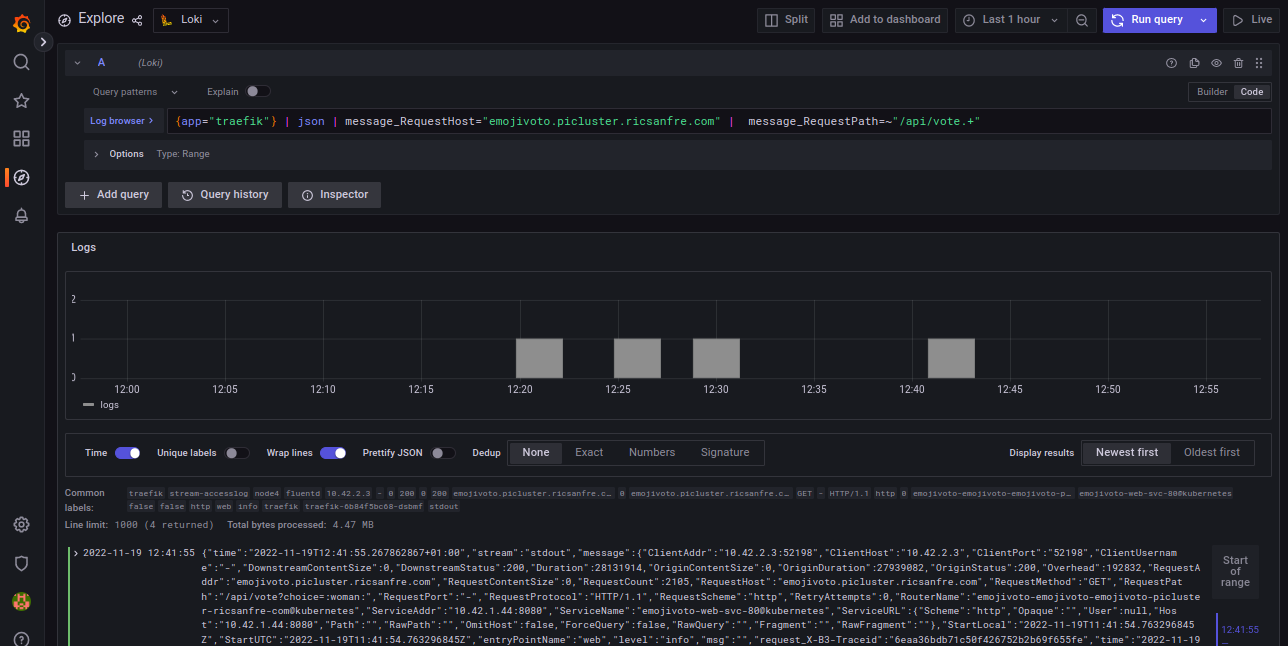
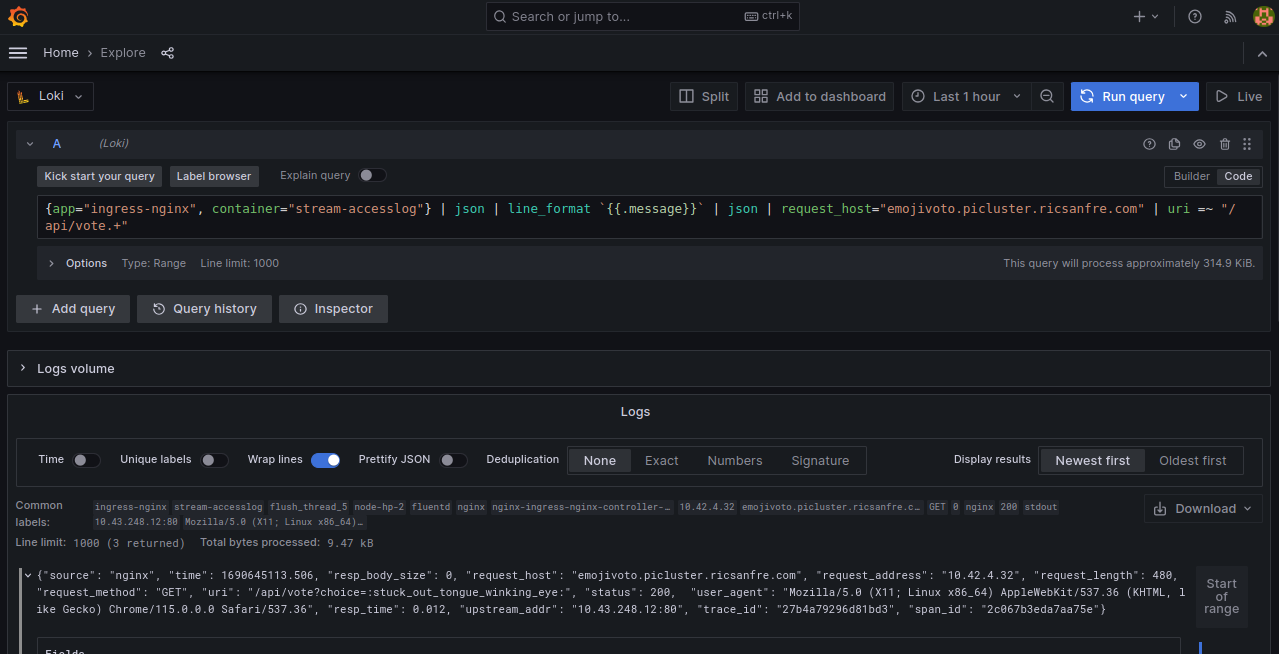
Enabling integration Loki-Tempo for nginx access logs

diff --git a/docs/_docs/tracing.md b/docs/_docs/tracing.md
@@ -2,7 +2,7 @@
 title: Distributed Tracing (Tempo)
 permalink: /docs/tracing/
 description: How to deploy a distributed tracing solution based on Grafana Tempo.
-last_modified_at: "13-05-2023"
+last_modified_at: "29-07-2023"
 ---
 
 
@@ -393,6 +393,31 @@ tracing:
 
 In Traefik's access logs, a new field appear `request_X-B3-Traceid` containing trace id that can be used to extrac Tempo traces information.
 
+
+## Ingress NGINX traces integration
+
+Ingress Contoller is a key component for distributed tracing solution because it is reposible for creating the root span of each trace and for deciding if that trace should be sampled or not.
+
+Distributed tracing systems all rely on propagate the trace context throuhg the chain of involved services. This trace contex is encoding in HTTP request headers. Of the available propagation protocols, B3 is the only one supported by Linkerd, and so this is the one to be used in the whole system.
+
+Ingress Nginx uses OpenTrace to export traces to different backends. See details in [Ingress NGINX Open Tracing documentation](https://kubernetes.github.io/ingress-nginx/user-guide/third-party-addons/opentracing/).
+
+To activate tracing using B3 propagation protocol, the following options need to be provided following to helm values.yml:
+
+```yml
+controller:
+  config:
+    # Open Tracing
+    enable-opentracing: "true"
+    zipkin-collector-host: tracing-tempo-distributor.tracing.svc.cluster.local
+    zipkin-service-name: nginx-internal
+    log-format-escape-json: "true"
+    log-format-upstream: '{"source": "nginx", "time": $msec, "resp_body_size": $body_bytes_sent, "request_host": "$http_host", "request_address": "$remote_addr", "request_length": $request_length, "method": "$request_method", "uri": "$request_uri", "status": $status,  "user_agent": "$http_user_agent", "resp_time": $request_time, "upstream_addr": "$upstream_addr", "trace_id": "$opentracing_context_x_b3_traceid", "span_id": "$opentracing_context_x_b3_spanid"}'
+```
+
+In this case Zipkin is used, and Tempo OTEL collector is used as destination. Access logs format is also changed to include OpenTrace context. Opentrace context (x_b3_traceid and x_b3_spanId) appears as field in the logs: `trace_id` and `span_id` 
+
+
 ## Grafana Configuration
 
 Tempo need to be added to Grafana as DataSource
@@ -428,8 +453,14 @@ grafana
     url: http://loki-gateway.logging.svc.cluster.local
     jsonData:
       derivedFields:
+        # Traefik traces integration
+        # - datasourceUid: tempo
+        #   matcherRegex: '"request_X-B3-Traceid":"(\w+)"'
+        #   name: TraceID
+        #   url: $${__value.raw}
+          # NGINX traces integration
         - datasourceUid: tempo
-          matcherRegex: '"request_X-B3-Traceid":"(\w+)"'
+          matcherRegex: '"trace_id": "(\w+)"'
           name: TraceID
           url: $${__value.raw}
   - name: Tempo
@@ -439,7 +470,7 @@ grafana
     url: http://tempo-query-frontend.tracing.svc.cluster.local:3100
 ```
 
-A derived field `TraceID` is added to logs whose message contains field `request_X-B3-Traceid` (Traefik access logs).
+A derived field `TraceID` is added to logs whose message contains field `request_X-B3-Traceid` (Traefik access logs) or containing `trace_id` (NGINX access logs)
 
 ## Testing with Emojivoto application
 
@@ -465,9 +496,11 @@ Linkerd's testing application emojivoto can be used to test the tracing solution
     name: emojivoto
     namespace: emojivoto
     annotations:
-      # HTTP as entrypoint
-      traefik.ingress.kubernetes.io/router.entrypoints: web
+      # Linkerd configuration. Configure Service as Upstream
+      nginx.ingress.kubernetes.io/service-upstream: "true"
+      nginx.ingress.kubernetes.io/enable-opentracing: "true"
   spec:
+    ingressClassName: nginx
     rules:
       - host: emojivoto.picluster.ricsanfre.com
         http:
@@ -488,9 +521,11 @@ Linkerd's testing application emojivoto can be used to test the tracing solution
 - Step 5: Connect to Grafana, select Explorer and Loki data source
 
   Filter logs usin LQL: 
+  {% raw %}
   ```
-  {app="traefik"} | json | message_RequestHost="emojivoto.picluster.ricsanfre.com" |  message_RequestPath=~"/api/vote.+"
+  {app="ingress-nginx", container="stream-accesslog"} | json | line_format "{{.message}}" | json | request_host="emojivoto.picluster.ricsanfre.com" | uri =~ "/api/vote.+"
   ```
+  {% endraw %}
 
   Logs containing the votes made in step 5 are displayed.
 

diff --git a/docs/_docs/nginx.md b/docs/_docs/nginx.md
@@ -8,7 +8,7 @@ last_modified_at: "26-07-2023"
 All HTTP/HTTPS traffic comming to K3S exposed services should be handled by a Ingress Controller.
 K3S default installation comes with Traefik HTTP reverse proxy which is a Kuberentes compliant Ingress Controller.
 
-Instead of using Traefik, [NGINX Ingress Controller](https://kubernetes.github.io/ingress-nginx/) can be deployed. Ingress nginx is an Ingress controller for Kubernetes using (NGINX)[https://nginx.org/] as a reverse proxy and load balancer.
+Instead of using Traefik, [NGINX Ingress Controller](https://kubernetes.github.io/ingress-nginx/) can be deployed. Ingress nginx is an Ingress controller for Kubernetes using [NGINX](https://nginx.org/) as a reverse proxy and load balancer.
 
 {{site.data.alerts.note}}
 
@@ -89,10 +89,49 @@ With this configuration ip 10.0.0.100 is assigned to Traefik proxy and so, for a
 
 Access logs are enabled by default for all Ingress resources.
 
-It can be disabled annotating Ingress resource with `nginx.ingress.kubernetes.io/enable-access-log: "false".
-
+It can be disabled annotating Ingress resource with `nginx.ingress.kubernetes.io/enable-access-log: "false"`.
 
 See [Ingress Nginx Annotations documentation](https://kubernetes.github.io/ingress-nginx/user-guide/nginx-configuration/annotations/#enable-access-log)
+
+NGINX writes the logs to `stdout` by default, mixing the access logs with NGINX-generated application logs.
+
+To avoid this, the access log default configuration must be changed to write logs to a specific file `/data/access.log` (`controller.config.access-log-path`), adding to traekik deployment a sidecar container to tail on the access.log file. This container will print access.log to `stdout` but not missing it with the rest of logs.
+
+Default access format need to be changed as well to use JSON format (`controlle.config.log-format-escape-json`). That way those logs will be parsed by Fluentbit and log JSON payload automatically decoded extracting all fields from the log. See Fluentbit's Kubernetes Filter `MergeLog` configuration option in the [documentation](https://docs.fluentbit.io/manual/pipeline/filters/kubernetes).
+
+Following Ingress NGINX helm chart values need to be provided:
+
+```yml
+controller:
+  config:
+    # Print access log to file instead of stdout
+    # Separating acces logs from the rest
+    access-log-path: "/data/access.log"
+    log-format-escape-json: "true"
+      # controller extra Volume
+  extraVolumeMounts:
+    - name: data
+      mountPath: /data
+  extraVolumes:
+    - name: data
+      emptyDir: {}
+  extraContainers:
+    - name: stream-accesslog
+      image: busybox
+      args:
+      - /bin/sh
+      - -c
+      - tail -n+1 -F /data/access.log
+      imagePullPolicy: Always
+      resources: {}
+      terminationMessagePath: /dev/termination-log
+      terminationMessagePolicy: File
+      volumeMounts:
+      - mountPath: /data
+          name: data
+```
+
+This configuration enables NGINX access log writing to `/data/acess.log` file in JSON format. It creates also the sidecar container `stream-access-log` tailing the log file.
 
 
 ## Configuring access to cluster services with Ingress NGINX
